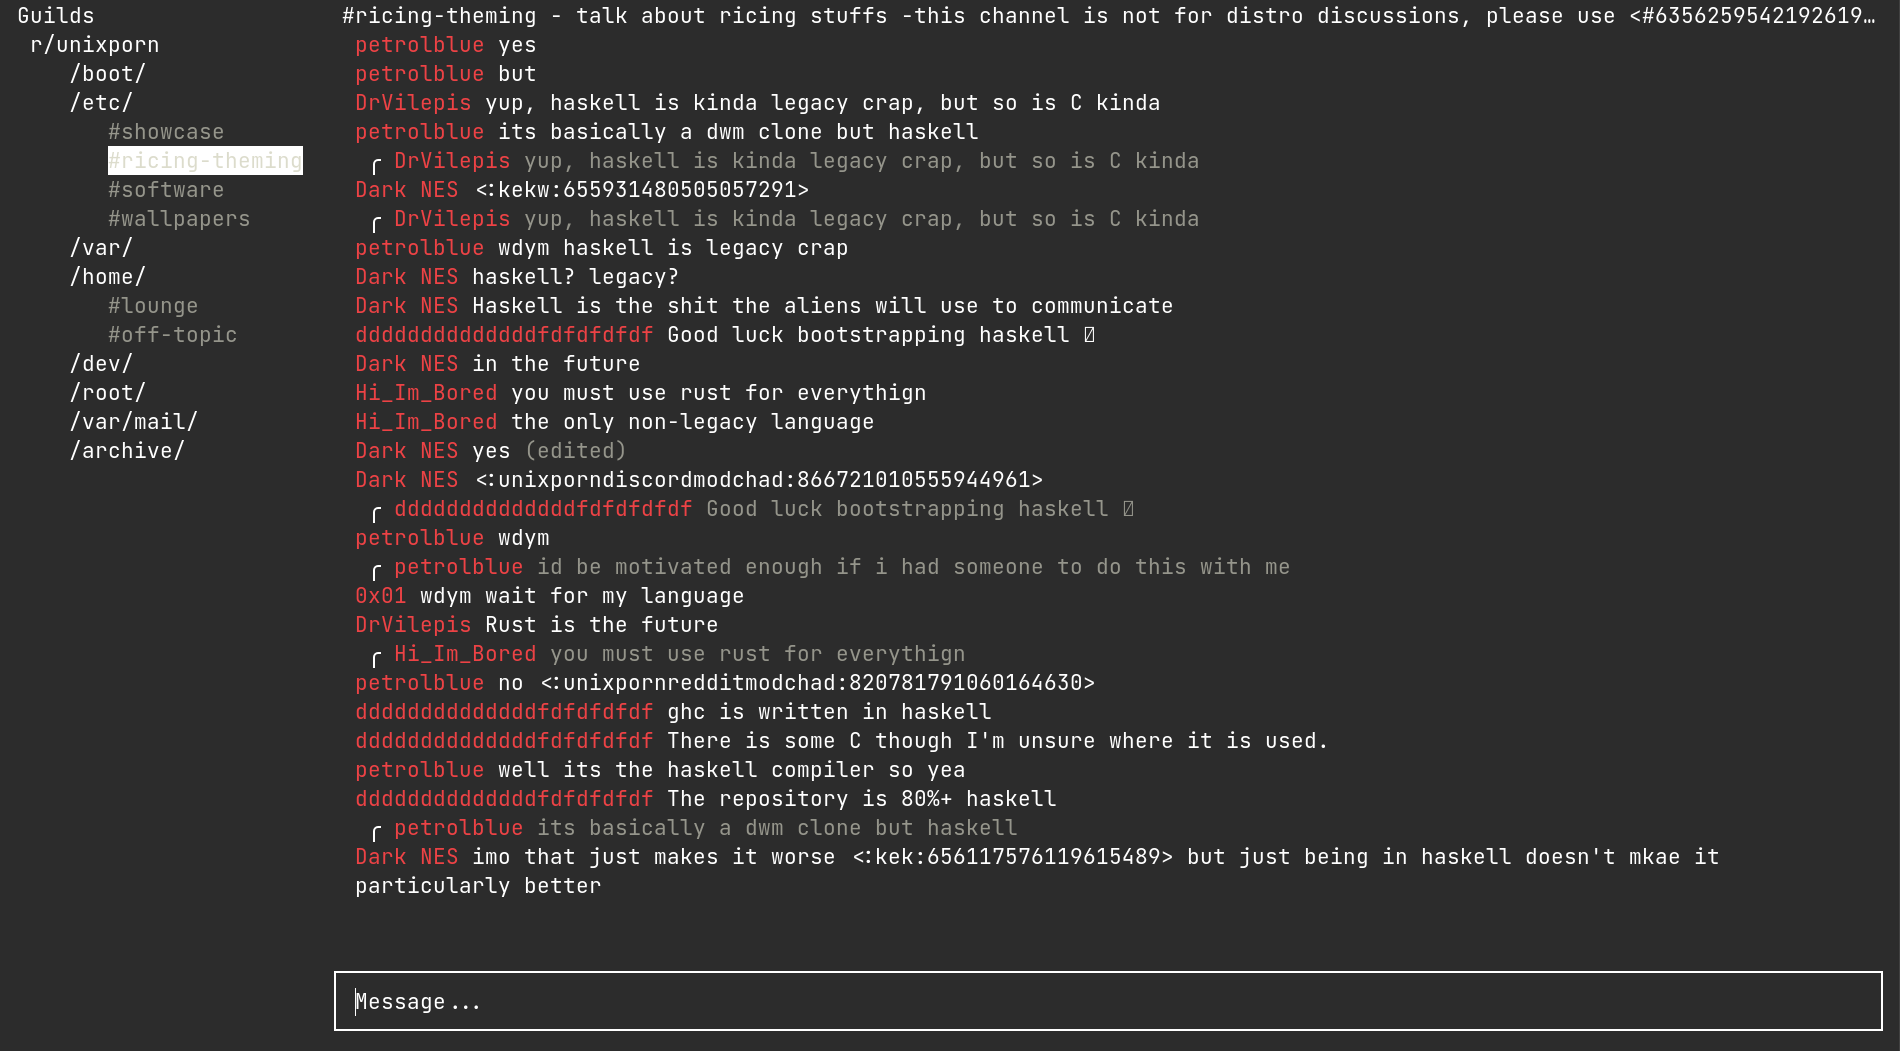
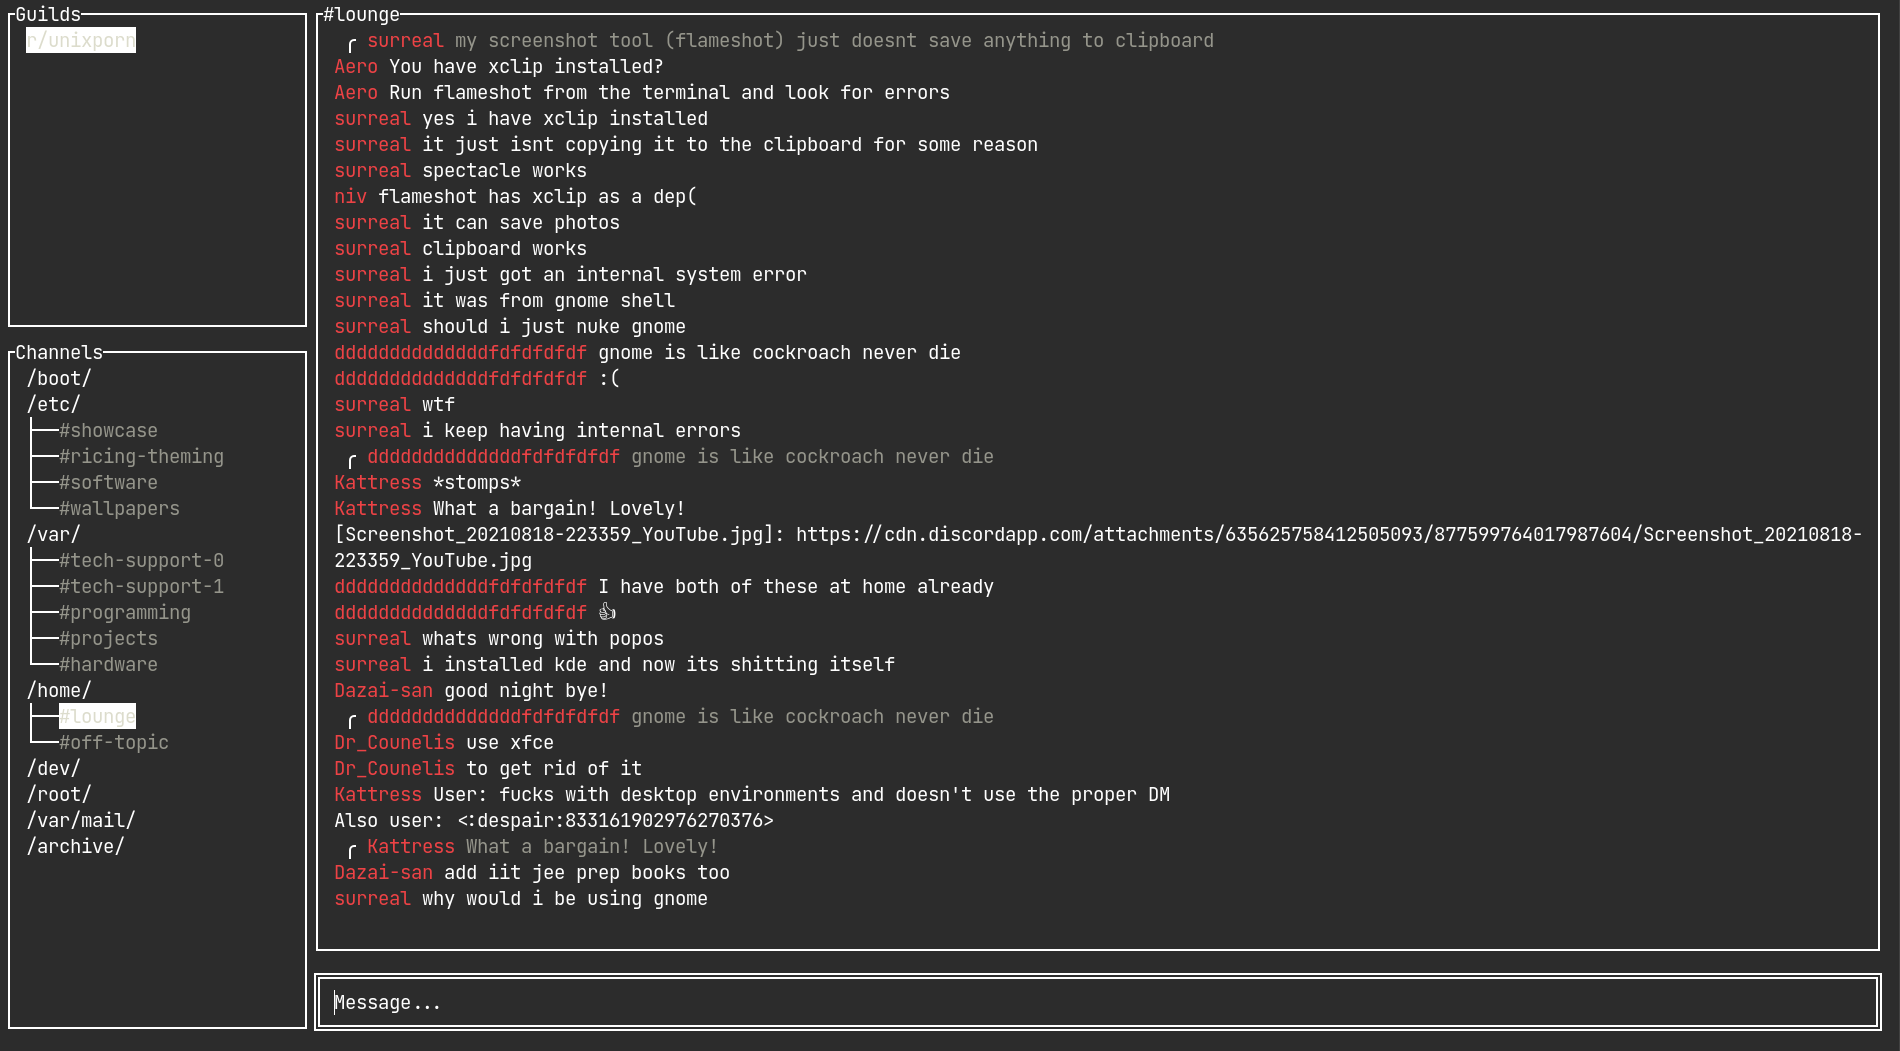
ui: separate guilds from TreeView (#33)
* feat(ui): add NewGuildsList()

* fix(ui): remove redundant \n from guilds list

* feat(ui): add guilds List to main Flex

* refactor(ui): rename TreeView to channels TreeView

* feat: separate guilds from TreeView

* ui/flex: increase proportionate size of TreeView

* main: sort guild channels according to channel positions

* docs: update README preview

* main: add keybinding for guilds List

diff --git a/discordo.go b/discordo.go
@@ -19,7 +19,8 @@ import (
 var (
 	app               *tview.Application
 	loginForm         *tview.Form
-	guildsTreeView    *tview.TreeView
+	guildsList        *tview.List
+	channelsTreeView  *tview.TreeView
 	messagesTextView  *tview.TextView
 	messageInputField *tview.InputField
 	mainFlex          *tview.Flex
@@ -27,8 +28,9 @@ var (
 	conf           *util.Config
 	discordSession *session.Session
 	clientID       discord.UserID
-	currentGuild   gateway.GuildCreateEvent
-	currentChannel discord.Channel
+	guilds         []gateway.GuildCreateEvent
+	guild          gateway.GuildCreateEvent
+	channel        discord.Channel
 )
 
 func main() {
@@ -59,10 +61,11 @@ func main() {
 	}
 
 	app = ui.NewApp(onAppInputCapture)
-	guildsTreeView = ui.NewGuildsTreeView(onGuildsTreeViewSelected)
+	guildsList = ui.NewGuildsList(onGuildsListSelected, conf.Theme)
+	channelsTreeView = ui.NewChannelsTreeView(onChannelsTreeViewSelected)
 	messagesTextView = ui.NewMessagesTextView(app)
 	messageInputField = ui.NewMessageInputField(onMessageInputFieldInputCapture, conf.Theme)
-	mainFlex = ui.NewMainFlex(guildsTreeView, messagesTextView, messageInputField)
+	mainFlex = ui.NewMainFlex(guildsList, channelsTreeView, messagesTextView, messageInputField)
 
 	token := os.Getenv("DISCORDO_TOKEN")
 	if t := util.GetPassword("token"); t != "" {
@@ -72,7 +75,7 @@ func main() {
 	if token != "" {
 		app.
 			SetRoot(mainFlex, true).
-			SetFocus(guildsTreeView)
+			SetFocus(guildsList)
 
 		discordSession = newSession(token)
 	} else {
@@ -88,13 +91,13 @@ func main() {
 func onAppInputCapture(e *tcell.EventKey) *tcell.EventKey {
 	switch e.Name() {
 	case "Alt+Rune[1]":
-		app.SetFocus(guildsTreeView)
+		app.SetFocus(guildsList)
 	case "Alt+Rune[2]":
-		app.SetFocus(messagesTextView)
+		app.SetFocus(channelsTreeView)
 	case "Alt+Rune[3]":
-		if messageInputField != nil {
-			app.SetFocus(messageInputField)
-		}
+		app.SetFocus(messagesTextView)
+	case "Alt+Rune[4]":
+		app.SetFocus(messageInputField)
 	}
 
 	return e
@@ -108,7 +111,7 @@ func onMessageInputFieldInputCapture(e *tcell.EventKey) *tcell.EventKey {
 			return nil
 		}
 
-		discordSession.SendMessage(currentChannel.ID, t)
+		discordSession.SendMessage(channel.ID, t)
 		messageInputField.SetText("")
 	case tcell.KeyCtrlV:
 		text, _ := clipboard.ReadAll()
@@ -143,110 +146,98 @@ func newSession(token string) (s *session.Session) {
 	return
 }
 
+func onSessionReady(r *gateway.ReadyEvent) {
+	clientID = r.User.ID
+	guilds = r.Guilds
+	for _, g := range r.Guilds {
+		guildsList.AddItem(g.Name, "", 0, nil)
+	}
+}
+
 func onSessionMessageCreate(m *gateway.MessageCreateEvent) {
-	if currentChannel.ID == m.ChannelID {
+	if channel.ID == m.ChannelID {
 		util.WriteMessage(messagesTextView, clientID, m.Message)
 	}
 }
 
-func onSessionReady(r *gateway.ReadyEvent) {
-	clientID = r.User.ID
+func onGuildsListSelected(i int, _ string, _ string, _ rune) {
+	app.SetFocus(channelsTreeView)
+	messagesTextView.SetTitle("")
+	messagesTextView.Clear()
 
-	for _, g := range r.Guilds {
-		gn := tview.NewTreeNode(g.Name).
-			SetReference(g).
-			Collapse()
-		guildsTreeView.GetRoot().AddChild(gn)
+	n := channelsTreeView.GetRoot()
+	n.ClearChildren()
 
-		sort.Slice(g.Channels, func(i, j int) bool {
-			return g.Channels[i].Position < g.Channels[j].Position
-		})
+	guild = guilds[i]
+	sort.SliceStable(guild.Channels, func(i, j int) bool {
+		return guild.Channels[i].Position < guild.Channels[j].Position
+	})
 
-		for _, c := range g.Channels {
-			switch c.Type {
-			case discord.GuildCategory:
-				cn := tview.NewTreeNode(c.Name).
+	for _, c := range guild.Channels {
+		switch c.Type {
+		case discord.GuildCategory:
+			cn := tview.NewTreeNode(c.Name).
+				SetReference(c)
+			n.AddChild(cn)
+		case discord.GuildText, discord.GuildNews:
+			if c.ParentID == 0 || c.ParentID == discord.NullChannelID {
+				cn := tview.NewTreeNode("[::d]#" + c.Name + "[::-]").
 					SetReference(c)
-				gn.AddChild(cn)
-			case discord.GuildText, discord.GuildNews:
-				if c.ParentID == 0 || c.ParentID == discord.NullChannelID {
-					cn := tview.NewTreeNode("[::d]#" + c.Name + "[::-]").
-						SetReference(c)
-					gn.AddChild(cn)
-				}
-			case discord.GuildStageVoice, discord.GuildVoice:
-				if c.ParentID == 0 || c.ParentID == discord.NullChannelID {
-					cn := tview.NewTreeNode("[::d]🔊" + c.Name + "[::-]").
-						SetReference(c)
-					gn.AddChild(cn)
-				}
+				n.AddChild(cn)
+			}
+		case discord.GuildStageVoice, discord.GuildVoice:
+			if c.ParentID == 0 || c.ParentID == discord.NullChannelID {
+				cn := tview.NewTreeNode("[::d]🔊" + c.Name + "[::-]").
+					SetReference(c)
+				n.AddChild(cn)
 			}
 		}
 	}
 }
 
-func onGuildsTreeViewSelected(n *tview.TreeNode) {
-	switch r := n.GetReference().(type) {
-	case gateway.GuildCreateEvent:
-		currentGuild = r
-		n.SetExpanded(!n.IsExpanded())
-	case discord.Channel:
-		switch r.Type {
-		case discord.GuildCategory:
-			if len(n.GetChildren()) == 0 {
-				for _, c := range currentGuild.Channels {
-					switch c.Type {
-					case discord.GuildText, discord.GuildNews:
-						if c.ParentID == r.ID {
-							cn := tview.NewTreeNode("[::d]#" + c.Name + "[::-]").
-								SetReference(c)
-							n.AddChild(cn)
-						}
-					case discord.GuildStageVoice, discord.GuildVoice:
-						if c.ParentID == r.ID {
-							cn := tview.NewTreeNode("[::d]🔊" + c.Name + "[::-]").
-								SetReference(c)
-							n.AddChild(cn)
-						}
+func onChannelsTreeViewSelected(n *tview.TreeNode) {
+	r := n.GetReference().(discord.Channel)
+	switch r.Type {
+	case discord.GuildCategory:
+		if len(n.GetChildren()) == 0 {
+			for _, c := range guild.Channels {
+				switch c.Type {
+				case discord.GuildText, discord.GuildNews:
+					if c.ParentID == r.ID {
+						cn := tview.NewTreeNode("[::d]#" + c.Name + "[::-]").
+							SetReference(c)
+						n.AddChild(cn)
 					}
-				}
-			} else {
-				n.SetExpanded(!n.IsExpanded())
-			}
-		case discord.GuildText, discord.GuildNews:
-			if len(n.GetChildren()) == 0 {
-				currentChannel = r
-				app.SetFocus(messageInputField)
-				messagesTextView.Clear()
-
-				title := "#" + r.Name
-				if r.Topic != "" {
-					title += " - " + r.Topic
-				}
-				messagesTextView.SetTitle(title)
-
-				for _, t := range currentGuild.Threads {
-					if t.ParentID == currentChannel.ID {
-						cn := tview.NewTreeNode("[::d]🗨 " + t.Name + "[::-]").
-							SetReference(t)
+				case discord.GuildStageVoice, discord.GuildVoice:
+					if c.ParentID == r.ID {
+						cn := tview.NewTreeNode("[::d]🔊" + c.Name + "[::-]").
+							SetReference(c)
 						n.AddChild(cn)
 					}
 				}
-
-				go func() {
-					msgs, _ := discordSession.Messages(r.ID, conf.GetMessagesLimit)
-					for i := len(msgs) - 1; i >= 0; i-- {
-						util.WriteMessage(messagesTextView, clientID, msgs[i])
-					}
-				}()
-			} else {
-				n.SetExpanded(!n.IsExpanded())
 			}
-		case discord.GuildNewsThread, discord.GuildPrivateThread, discord.GuildPublicThread:
-			currentChannel = r
+		} else {
+			n.SetExpanded(!n.IsExpanded())
+		}
+	case discord.GuildText, discord.GuildNews:
+		if len(n.GetChildren()) == 0 {
+			channel = r
 			app.SetFocus(messageInputField)
 			messagesTextView.Clear()
-			messagesTextView.SetTitle(r.Name)
+
+			title := "#" + r.Name
+			if r.Topic != "" {
+				title += " - " + r.Topic
+			}
+			messagesTextView.SetTitle(title)
+
+			for _, t := range guild.Threads {
+				if t.ParentID == channel.ID {
+					cn := tview.NewTreeNode("[::d]🗨 " + t.Name + "[::-]").
+						SetReference(t)
+					n.AddChild(cn)
+				}
+			}
 
 			go func() {
 				msgs, _ := discordSession.Messages(r.ID, conf.GetMessagesLimit)
@@ -254,10 +245,24 @@ func onGuildsTreeViewSelected(n *tview.TreeNode) {
 					util.WriteMessage(messagesTextView, clientID, msgs[i])
 				}
 			}()
-		case discord.GuildStageVoice, discord.GuildVoice:
-			messagesTextView.Clear()
-			messagesTextView.SetTitle(r.Name)
+		} else {
+			n.SetExpanded(!n.IsExpanded())
 		}
+	case discord.GuildNewsThread, discord.GuildPrivateThread, discord.GuildPublicThread:
+		channel = r
+		app.SetFocus(messageInputField)
+		messagesTextView.Clear()
+		messagesTextView.SetTitle(r.Name)
+
+		go func() {
+			msgs, _ := discordSession.Messages(r.ID, conf.GetMessagesLimit)
+			for i := len(msgs) - 1; i >= 0; i-- {
+				util.WriteMessage(messagesTextView, clientID, msgs[i])
+			}
+		}()
+	case discord.GuildStageVoice, discord.GuildVoice:
+		messagesTextView.Clear()
+		messagesTextView.SetTitle(r.Name)
 	}
 }
 
@@ -278,8 +283,8 @@ func onLoginFormLoginButtonSelected() {
 
 	if l.Token != "" && !l.MFA {
 		app.
-			SetRoot(mainFlex, true).
-			SetFocus(guildsTreeView)
+			SetRoot(guildsList, true).
+			SetFocus(channelsTreeView)
 
 		discordSession = newSession(l.Token)
 		go util.SetPassword("token", l.Token)
@@ -297,7 +302,7 @@ func onLoginFormLoginButtonSelected() {
 
 			app.
 				SetRoot(mainFlex, true).
-				SetFocus(guildsTreeView)
+				SetFocus(guildsList)
 
 			discordSession = newSession(l.Token)
 			go util.SetPassword("token", l.Token)

diff --git a/ui/flex.go b/ui/flex.go
@@ -4,14 +4,18 @@ import (
 	"github.com/rivo/tview"
 )
 
-func NewMainFlex(treeV *tview.TreeView, textV *tview.TextView, i *tview.InputField) (mf *tview.Flex) {
+func NewMainFlex(l *tview.List, treeV *tview.TreeView, textV *tview.TextView, i *tview.InputField) (mf *tview.Flex) {
+	lf := tview.NewFlex().
+		SetDirection(tview.FlexRow).
+		AddItem(l, 0, 1, false).
+		AddItem(treeV, 0, 3, false)
 	rf := tview.NewFlex().
 		SetDirection(tview.FlexRow).
 		AddItem(textV, 0, 1, false).
 		AddItem(i, 3, 1, false)
 	mf = tview.NewFlex().
-		AddItem(treeV, 25, 1, false).
-		AddItem(rf, 0, 1, false)
+		AddItem(lf, 0, 1, false).
+		AddItem(rf, 0, 5, false)
 
 	return mf
 }

diff --git a/ui/treeviews.go b/ui/treeviews.go
@@ -4,15 +4,15 @@ import (
 	"github.com/rivo/tview"
 )
 
-func NewGuildsTreeView(onGuildsTreeViewSelected func(*tview.TreeNode)) (treeV *tview.TreeView) {
+func NewChannelsTreeView(onChannelsTreeViewSelected func(*tview.TreeNode)) (treeV *tview.TreeView) {
 	treeV = tview.NewTreeView()
 	treeN := tview.NewTreeNode("")
 	treeV.
 		SetTopLevel(1).
 		SetRoot(treeN).
 		SetCurrentNode(treeN).
-		SetSelectedFunc(onGuildsTreeViewSelected).
-		SetTitle("Guilds").
+		SetSelectedFunc(onChannelsTreeViewSelected).
+		SetTitle("Channels").
 		SetBorder(true).
 		SetBorderPadding(0, 0, 1, 0).
 		SetTitleAlign(tview.AlignLeft)

diff --git a/ui/lists.go b/ui/lists.go
@@ -1,0 +1,19 @@
+package ui
+
+import (
+	"github.com/rigormorrtiss/discordo/util"
+	"github.com/rivo/tview"
+)
+
+func NewGuildsList(onGuildsListSelected func(int, string, string, rune), t *util.Theme) (l *tview.List) {
+	l = tview.NewList()
+	l.
+		SetSelectedFunc(onGuildsListSelected).
+		ShowSecondaryText(false).
+		SetBorder(true).
+		SetBorderPadding(0, 0, 1, 0).
+		SetTitle("Guilds").
+		SetTitleAlign(tview.AlignLeft)
+
+	return
+}

diff --git a/README.md b/README.md
@@ -44,7 +44,7 @@ By default, Discordo utilizes OS-specific keyring to store credentials such as c
 
 ### Default Keybindings
 
-- `Alt` + `1`: Sets the focus on the guilds dropdown.
+- `Alt` + `1`: Sets the focus on the guilds list.
 - `Alt` + `2`: Sets the focus on the channels treeview.
 - `Alt` + `3`: Sets the focus on the messages textview.
 - `Alt` + `4`: Sets the focus on the message inputfield.
